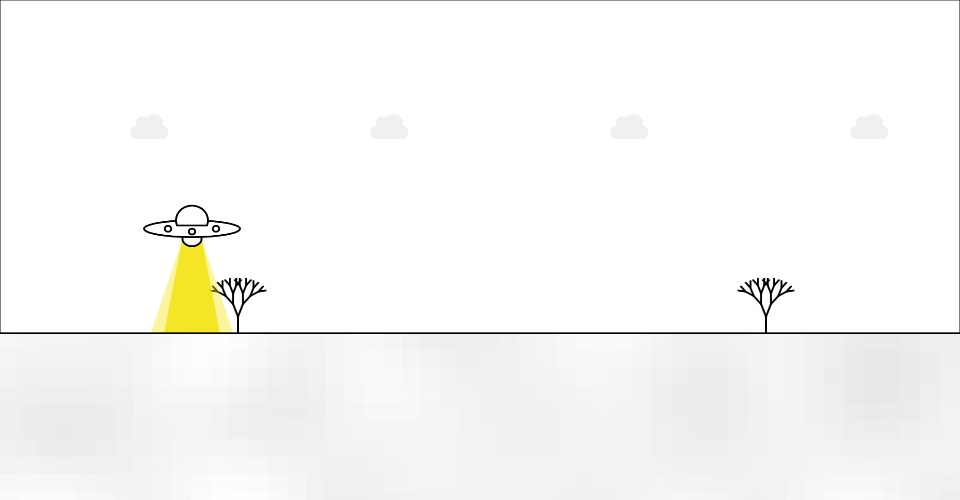
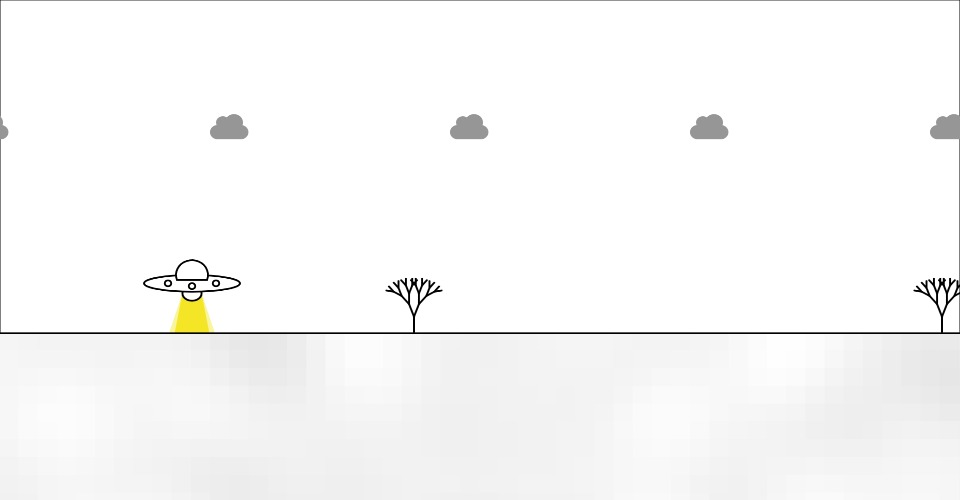
Fixed noise scalling and cleaned up code

diff --git a/draw_one_frame.js b/draw_one_frame.js
@@ -2,28 +2,25 @@ const groundY=canvasHeight/2;
 let frameNo=0;
 function draw_one_frame(cur_frac) {
 	angleMode(DEGREES);
-	frameNo=map(cur_frac,0,1,0,24);
-	fill(255,255,255);
+	frameNo=map(cur_frac,0,1,0,24);//convert cur fract to a number between 0 and 24 to make it eaiser to  do keyframing 
+	fill(255);
 	rectMode(CORNER);
-	rect(0,0,width,height);
-	
+	rect(0,0,width,height);//background
 	push(); 
 	translate(0, canvasHeight/6);
-	
-	
 	drawTree();
-	drawCharacter();
+	drawShip();
 	drawGround();
 	pop();
 	drawCloud();
 }
 function drawCloud(){
 	let numOfClouds=4;
-	
 	let cloudY=canvasHeight/4;
-	fill(240);
+	fill(150);
 	noStroke();
 	
+
 	for(let i=-1;i<numOfClouds;i++){
 		let cloudX=map(frameNo,0,24,canvasWidth/numOfClouds+i*canvasWidth/numOfClouds,+i*canvasWidth/numOfClouds);
 		push();
@@ -36,17 +33,13 @@ function drawCloud(){
 	
 
 }
-function drawCharacter(){
+function drawShip(){
 	const jumpStart=7;
 	const jumpEnd=18;
 	const jumpTop=(jumpStart+jumpEnd)/2;
 	const jumpHeight=canvasHeight/4;
-	
 	let characterY=groundY-canvasHeight/10;
 	rectMode(CENTER);
-	//stroke(0,0,0);
-	//fill(255,0,255);
-	
 	if(frameNo>=jumpStart&&frameNo<=jumpTop){
 		characterY=map(frameNo, jumpStart, jumpTop, groundY-canvasHeight/10, jumpHeight);
 	}
@@ -80,7 +73,7 @@ function drawCharacter(){
 	//draw the ship
 	stroke(0);
 	strokeWeight(width/500);
-	fill(255,255,255);
+	fill(255);
 	ellipse(shipX,characterY+canvasHeight/50,lightDomewidth,width/60);//bottom dome
 	ellipse(shipX,characterY,shipWidth,canvasHeight/30);//main body
 	arc(shipX,characterY-canvasHeight/60,width/30,width/30,160,20,CHORD);//top dome
@@ -97,13 +90,13 @@ function drawGround(cur_frac){
 	let mainColor = color(255); // white
 	let backupColor = color(230,230,230); // grey
 	let noiseColor;
-	let pixelSize = width/50;//100
+	let pixelSize = width/50;
 	fill(mainColor);
 	rectMode(CORNER);
 	for(let x = 0; x <=width/pixelSize; x++ ){
 		for(let y = 0; y +1 < (height-groundY-canvasHeight/7) /pixelSize; y++){		
 			
-		noiseColor = getNoiseValue(pixelSize*x,pixelSize*y, 0.8, "noiseColor",0,1, 200 );
+		noiseColor = getNoiseValue(pixelSize*x,pixelSize*y, 0.8, "noiseColor",0,1, width/5 );
 		noiseLerp = lerpColor(mainColor,backupColor,noiseColor);
 		fill(noiseLerp);
 		stroke(noiseLerp);

diff --git a/README.md b/README.md
@@ -1,1 +1,1 @@
-I have added these grey clouds that move across the screen at a different rate from the trees. something is missing from the I am not sure whether it is the scale colour or lack of stroke so I will need to have a play. 
+I have cleaned up the code fixing noise scaling and other general improvements. I am trying to decide if I should add a stroke to the clouds and if the ground should move.
